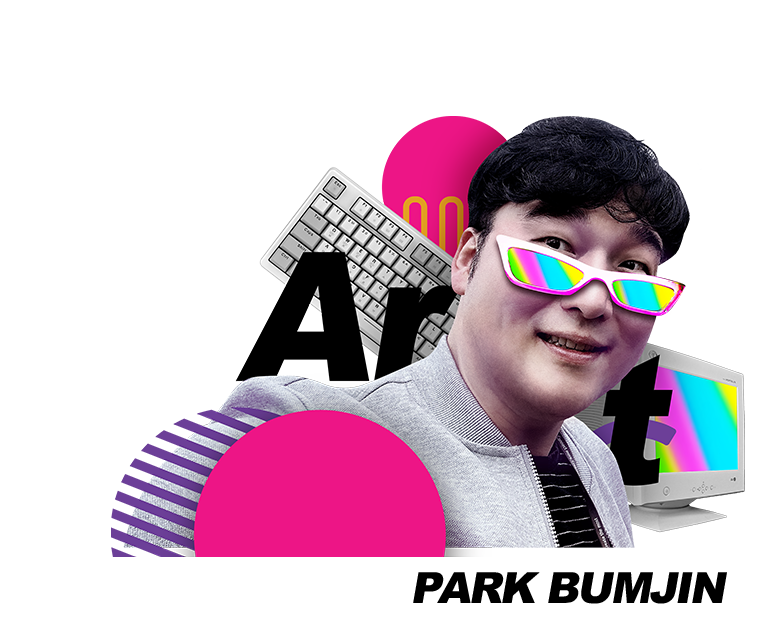
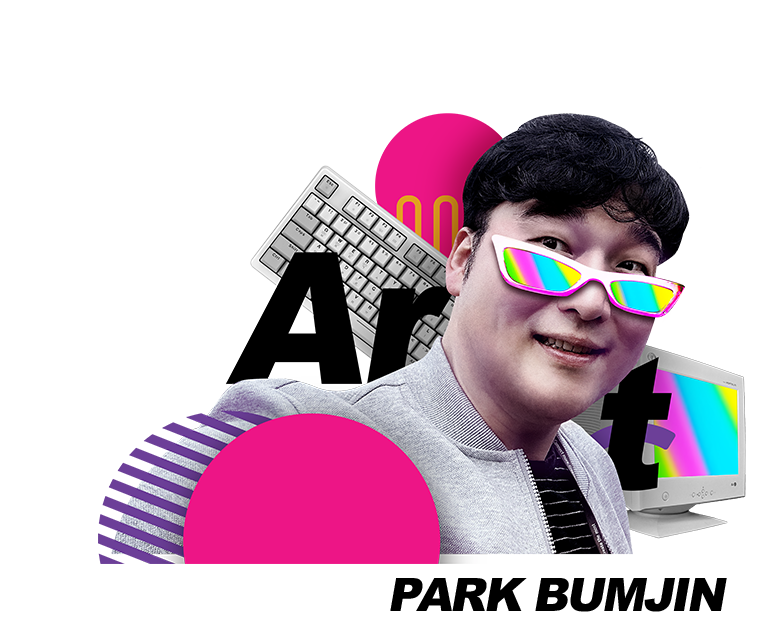
250126-6

Changed region(s): [[0.1231, 0.1532, 0.9538, 0.9806]]

diff --git a/index.css b/index.css
@@ -56,18 +56,18 @@ body{
     justify-content: right;
 }
 #mainbody1{
-    margin-bottom: 1.5%;
+    margin-bottom: 4%;
     background-image: url(./source/canvastage4.png);
     background-size: contain;
     background-repeat: no-repeat;
-    background-position: center;
+    background-position: bottom;
 }
 #copy3{
     padding-left: 6%;
-    width: 60%;
-    height: 620px;
-    font-size: 1.4rem;
-    line-height: 2.2rem;
+    width: 65%;
+    height: 550px;
+    font-size: 1.5rem;
+    line-height: 2.4rem;
 }
 #mainbody2, #mainbody4{
     padding-left: 6%;
@@ -76,9 +76,9 @@ body{
     display: flex;
 }
 #copy4, #copy5{
-    width: 35%;
+    width: 40%;
     font-family: Arial, sans-serif;   
-    font-size: 1.7rem; 
+    font-size: 1.8rem; 
     font-weight: bold;
     font-style: italic;
     letter-spacing: -0.03rem;
@@ -87,17 +87,17 @@ body{
     justify-content: left;
 }
 #source1, #source2{
-    width: 65%;
+    width: 60%;
     display: flex;
     align-items: center;
     justify-content: right;
 }
 #mainbody3, #mainbody5{
-    margin-bottom: 5%;
+    margin-bottom: 7%;
     padding-left: 6%;
     padding-right: 6%;
-    font-size: 1.15rem;
-    line-height: 1.9rem;
+    font-size: 1.3rem;
+    line-height: 2.2rem;
     text-align: justify;
 }
 @media (max-width:780px) {
@@ -111,31 +111,33 @@ body{
         font-size: 1.4rem; 
     }
     #mainbody1{
-        margin-bottom: 1%;
-    }
+        margin-bottom: 0.5%;
+        background-position: center;
+    }    
     #copy3{
         padding-left: 4%;
         width: 92%;
-        height: 325px;
+        height: 360px;
         text-align: justify;
-        font-size: 1.1rem;
-        line-height: 1.7rem;
+        font-size: 1.2rem;
+        line-height: 1.8rem;
     }
     #mainbody2, #mainbody4{
         padding-left: 4%;
         padding-right: 4%;
     }     
     #copy4, #copy5{
-        width: 57%;
-        font-size: 1.4rem; 
+        width: 60%;
+        font-size: 1.5rem; 
     }
     #source1, #source2{
-        width: 43%;
+        width: 40%;
     }
     #mainbody3, #mainbody5{
         padding-left: 4%;
         padding-right: 4%;
-        font-size: 1.1rem;
-        line-height: 1.7rem;
+        margin-bottom: 9%;
+        font-size: 1.2rem;
+        line-height: 1.8rem;
     }        
 }
